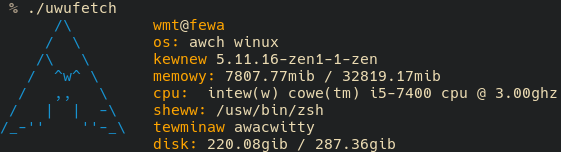
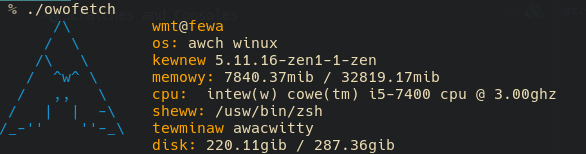
Rename project to owofetch

diff --git a/src/cli.rs b/src/cli.rs
@@ -2,7 +2,7 @@ use structopt::StructOpt;
 use crate::info::InfoType;
 
 #[derive(Debug, StructOpt)]
-#[structopt(name = "uwufetch", about = "uwuified *fetch alternative")]
+#[structopt(name = "owofetch", about = "uwuified *fetch alternative")]
 pub struct Opt {
     /// Sets the color of info categories, doesnt affect distro logo or the actual info itself. Must be in RGB hexadecimal format.
     #[structopt(short, long, default_value = "#FFA500")]

diff --git a/README.md b/README.md
@@ -1,4 +1,4 @@
-# uwufetch-rs
+# owofetch-rs
 Alternative to *fetch, uwuifies all stats.
 
 ![](screenshot.png)
